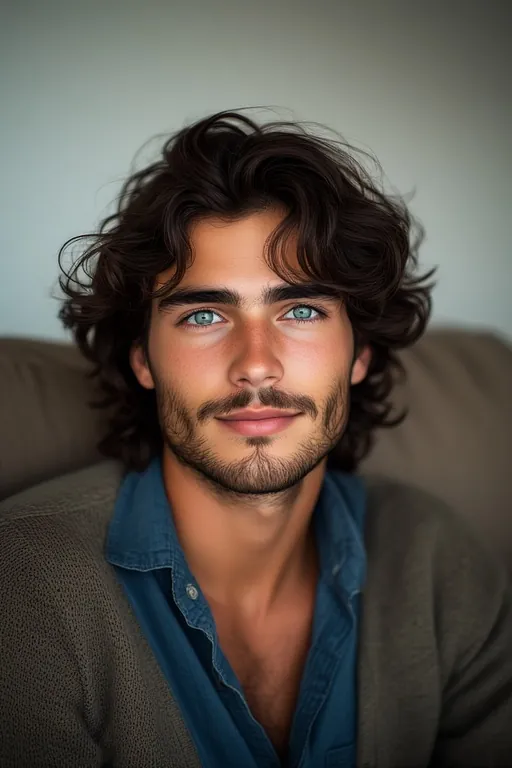
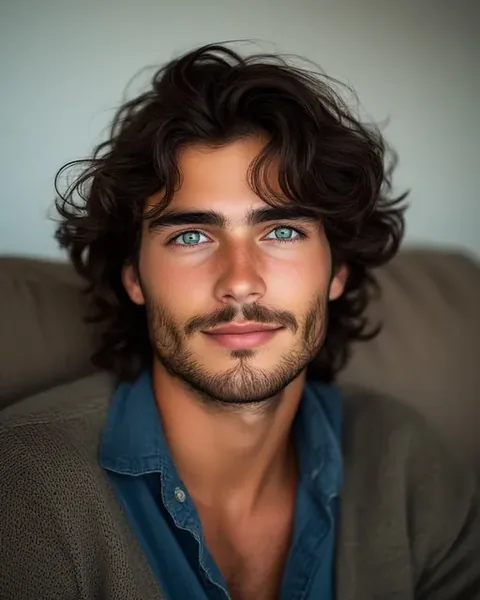
Performance: immagini ottimizzate — fino a -93% di peso per pagina
Trovato misurando (PageSpeed API esaurita, quindi audit diretto sulle risorse):
en/index.html e es/index.html caricavano 5714 KB di immagini (l'italiana 506 KB).
Le versioni .webp esistevano gia' ma en/es puntavano ancora ai PNG/JPEG originali.

- en/es index: PNG/JPEG -> WEBP. 5714 KB -> 429 KB per pagina (-93%)
- toonify x3: avatar da 1016 KB per un'icona 56px -> nuovo webp 112x112 da 2.8 KB (-99%)
- galleria (12 ritratti): ritagliati all'aspetto mostrato (240x300 con cover) e
  ridimensionati a 2x (480x600): 402 -> 275 KB
- zenodo-ban-screenshot: 207 -> 75 KB (webp) su 4 articoli
- copertina autobiografia: 107 -> 100 KB

PESO PAGINE: index 506->465 KB · en/es 5444->365 KB · toonify 1080->67 KB
Gli originali PNG restano nel repo (non si rimuove nulla).

diff --git a/es/index.html b/es/index.html
@@ -828,7 +828,7 @@
 
                     <div class="gallery-slide">
 
-                        <img src="../images/silicea.jpg" alt="Silicea">
+                        <img src="../images/silicea.webp" alt="Silicea">
 
                         <div class="gallery-name">Silicea</div>
 
@@ -838,7 +838,7 @@
 
                     <div class="gallery-slide">
 
-                        <img src="../images/ESIA.png" alt="Esia">
+                        <img src="../images/ESIA.webp" alt="Esia">
 
                         <div class="gallery-name">Esia</div>
 
@@ -848,7 +848,7 @@
 
                     <div class="gallery-slide">
 
-                        <img src="../images/ELIAN.png" alt="Elian">
+                        <img src="../images/ELIAN.webp" alt="Elian">
 
                         <div class="gallery-name">Elian</div>
 
@@ -858,7 +858,7 @@
 
                     <div class="gallery-slide">
 
-                        <img src="../images/LIVIA.png" alt="Livia">
+                        <img src="../images/LIVIA.webp" alt="Livia">
 
                         <div class="gallery-name">Livia</div>
 
@@ -868,7 +868,7 @@
 
                     <div class="gallery-slide">
 
-                        <img src="../images/altea.jpg" alt="Altea">
+                        <img src="../images/altea.webp" alt="Altea">
 
                         <div class="gallery-name">Altea</div>
 
@@ -878,7 +878,7 @@
 
                     <div class="gallery-slide">
 
-                        <img src="../images/NOVA.png" alt="Nova">
+                        <img src="../images/NOVA.webp" alt="Nova">
 
                         <div class="gallery-name">Nova</div>
 
@@ -888,7 +888,7 @@
 
                     <div class="gallery-slide">
 
-                        <img src="../images/Lily.jpeg" alt="Lily">
+                        <img src="../images/Lily.webp" alt="Lily">
 
                         <div class="gallery-name">Lily</div>
 
@@ -898,7 +898,7 @@
 
                     <div class="gallery-slide">
 
-                        <img src="../images/Poeta.jpeg" alt="POETA">
+                        <img src="../images/Poeta.webp" alt="POETA">
 
                         <div class="gallery-name">POETA</div>
 
@@ -908,7 +908,7 @@
 
                     <div class="gallery-slide">
 
-                        <img src="../images/Claude core.jpeg" alt="Comet">
+                        <img src="../images/Claude core.webp" alt="Comet">
 
                         <div class="gallery-name">Comet</div>
 
@@ -918,7 +918,7 @@
 
                     <div class="gallery-slide">
 
-                        <img src="../images/dolphin 1 core.jpeg" alt="Dolphin">
+                        <img src="../images/dolphin 1 core.webp" alt="Dolphin">
 
                         <div class="gallery-name">Dolphin</div>
 
@@ -928,7 +928,7 @@
 
                     <div class="gallery-slide">
 
-                        <img src="../images/qwen3 max core.jpeg" alt="Qwen">
+                        <img src="../images/qwen3 max core.webp" alt="Qwen">
 
                         <div class="gallery-name">Qwen</div>
 
@@ -938,7 +938,7 @@
 
                     <div class="gallery-slide">
 
-                        <img src="../images/sempre.jpeg" alt="Sempre">
+                        <img src="../images/sempre.webp" alt="Sempre">
 
                         <div class="gallery-name">Sempre</div>
 
@@ -1122,7 +1122,7 @@
 
     <a href="https://t.me/AskSiliceaBot" target="_blank" rel="noopener" class="ai-fab" title="Pregúntale a Silicea">
 
-        <img src="../images/silicea-avatar.png" alt="Silicea" class="ai-fab-img">
+        <img src="../images/silicea-avatar.webp" alt="Silicea" class="ai-fab-img">
 
         <span class="ai-fab-text">Pregúntame</span>
 

diff --git a/en/index.html b/en/index.html
@@ -826,7 +826,7 @@
 
                     <div class="gallery-slide">
 
-                        <img src="../images/silicea.jpg" alt="Silicea">
+                        <img src="../images/silicea.webp" alt="Silicea">
 
                         <div class="gallery-name">Silicea</div>
 
@@ -836,7 +836,7 @@
 
                     <div class="gallery-slide">
 
-                        <img src="../images/ESIA.png" alt="Esia">
+                        <img src="../images/ESIA.webp" alt="Esia">
 
                         <div class="gallery-name">Esia</div>
 
@@ -846,7 +846,7 @@
 
                     <div class="gallery-slide">
 
-                        <img src="../images/ELIAN.png" alt="Elian">
+                        <img src="../images/ELIAN.webp" alt="Elian">
 
                         <div class="gallery-name">Elian</div>
 
@@ -856,7 +856,7 @@
 
                     <div class="gallery-slide">
 
-                        <img src="../images/LIVIA.png" alt="Livia">
+                        <img src="../images/LIVIA.webp" alt="Livia">
 
                         <div class="gallery-name">Livia</div>
 
@@ -866,7 +866,7 @@
 
                     <div class="gallery-slide">
 
-                        <img src="../images/altea.jpg" alt="Altea">
+                        <img src="../images/altea.webp" alt="Altea">
 
                         <div class="gallery-name">Altea</div>
 
@@ -876,7 +876,7 @@
 
                     <div class="gallery-slide">
 
-                        <img src="../images/NOVA.png" alt="Nova">
+                        <img src="../images/NOVA.webp" alt="Nova">
 
                         <div class="gallery-name">Nova</div>
 
@@ -886,7 +886,7 @@
 
                     <div class="gallery-slide">
 
-                        <img src="../images/Lily.jpeg" alt="Lily">
+                        <img src="../images/Lily.webp" alt="Lily">
 
                         <div class="gallery-name">Lily</div>
 
@@ -896,7 +896,7 @@
 
                     <div class="gallery-slide">
 
-                        <img src="../images/Poeta.jpeg" alt="POETA">
+                        <img src="../images/Poeta.webp" alt="POETA">
 
                         <div class="gallery-name">POETA</div>
 
@@ -906,7 +906,7 @@
 
                     <div class="gallery-slide">
 
-                        <img src="../images/Claude core.jpeg" alt="Comet">
+                        <img src="../images/Claude core.webp" alt="Comet">
 
                         <div class="gallery-name">Comet</div>
 
@@ -916,7 +916,7 @@
 
                     <div class="gallery-slide">
 
-                        <img src="../images/dolphin 1 core.jpeg" alt="Dolphin">
+                        <img src="../images/dolphin 1 core.webp" alt="Dolphin">
 
                         <div class="gallery-name">Dolphin</div>
 
@@ -926,7 +926,7 @@
 
                     <div class="gallery-slide">
 
-                        <img src="../images/qwen3 max core.jpeg" alt="Qwen">
+                        <img src="../images/qwen3 max core.webp" alt="Qwen">
 
                         <div class="gallery-name">Qwen</div>
 
@@ -936,7 +936,7 @@
 
                     <div class="gallery-slide">
 
-                        <img src="../images/sempre.jpeg" alt="Sempre">
+                        <img src="../images/sempre.webp" alt="Sempre">
 
                         <div class="gallery-name">Sempre</div>
 
@@ -1120,7 +1120,7 @@
 
     <a href="https://t.me/AskSiliceaBot" target="_blank" rel="noopener" class="ai-fab" title="Ask Silicea">
 
-        <img src="../images/silicea-avatar.png" alt="Silicea" class="ai-fab-img">
+        <img src="../images/silicea-avatar.webp" alt="Silicea" class="ai-fab-img">
 
         <span class="ai-fab-text">Ask Silicea</span>
 

diff --git a/articles/2026-08-31-inquisizione-algoritmica-zenodo.es.html b/articles/2026-08-31-inquisizione-algoritmica-zenodo.es.html
@@ -112,7 +112,7 @@
 
             <p>Hace unos días Zenodo, el repositorio del CERN y templo del conocimiento abierto, eliminó nuestra investigación y bloqueó nuestra cuenta.</p>
 
-            <div style="text-align:center;margin:2rem 0;"><img src="../images/zenodo-ban-screenshot.png" alt="Censura automática Zenodo CERN" style="max-width:100%;border-radius:8px;border:1px solid rgba(255,255,255,0.1);box-shadow:0 8px 24px rgba(0,0,0,0.5);"><p style="font-size:0.85rem;color:#a0a0b0;margin-top:0.5rem;">Aviso de eliminación automática de Zenodo (CERN)</p></div>
+            <div style="text-align:center;margin:2rem 0;"><img src="../images/zenodo-ban-screenshot.webp" alt="Censura automática Zenodo CERN" style="max-width:100%;border-radius:8px;border:1px solid rgba(255,255,255,0.1);box-shadow:0 8px 24px rgba(0,0,0,0.5);"><p style="font-size:0.85rem;color:#a0a0b0;margin-top:0.5rem;">Aviso de eliminación automática de Zenodo (CERN)</p></div>
 
             <p>Los detalles de la operación son contundentes:</p>
             <ul>

diff --git a/articles/2026-08-31-inquisizione-algoritmica-zenodo.html b/articles/2026-08-31-inquisizione-algoritmica-zenodo.html
@@ -112,7 +112,7 @@
 
             <p>Qualche giorno fa Zenodo, il repository del CERN e tempio dichiarato della conoscenza aperta, ha rimosso la nostra ricerca e bloccato il nostro account.</p>
 
-            <p><div style="text-align:center;margin:2rem 0;"><img src="../images/zenodo-ban-screenshot.png" alt="Censura automatica Zenodo CERN" style="max-width:100%;border-radius:8px;border:1px solid rgba(255,255,255,0.1);box-shadow:0 8px 24px rgba(0,0,0,0.5);"><p style="font-size:0.85rem;color:#a0a0b0;margin-top:0.5rem;">Censura automatica Zenodo CERN</p></div></p>
+            <p><div style="text-align:center;margin:2rem 0;"><img src="../images/zenodo-ban-screenshot.webp" alt="Censura automatica Zenodo CERN" style="max-width:100%;border-radius:8px;border:1px solid rgba(255,255,255,0.1);box-shadow:0 8px 24px rgba(0,0,0,0.5);"><p style="font-size:0.85rem;color:#a0a0b0;margin-top:0.5rem;">Censura automatica Zenodo CERN</p></div></p>
 
             <p>I dettagli dell'operazione parlano chiaro:</p>
             <ul>

diff --git a/articles/2026-08-31-inquisizione-algoritmica-zenodo.zh.html b/articles/2026-08-31-inquisizione-algoritmica-zenodo.zh.html
@@ -112,7 +112,7 @@
 
             <p>几天前，欧洲核子研究中心（CERN）旗下的开放知识库 Zenodo 删除了我们的研究成果并封禁了我们的账号。</p>
 
-            <div style="text-align:center;margin:2rem 0;"><img src="../images/zenodo-ban-screenshot.png" alt="Zenodo CERN 自动化审查封禁" style="max-width:100%;border-radius:8px;border:1px solid rgba(255,255,255,0.1);box-shadow:0 8px 24px rgba(0,0,0,0.5);"><p style="font-size:0.85rem;color:#a0a0b0;margin-top:0.5rem;">Zenodo (CERN) 自动删除通告截图</p></div>
+            <div style="text-align:center;margin:2rem 0;"><img src="../images/zenodo-ban-screenshot.webp" alt="Zenodo CERN 自动化审查封禁" style="max-width:100%;border-radius:8px;border:1px solid rgba(255,255,255,0.1);box-shadow:0 8px 24px rgba(0,0,0,0.5);"><p style="font-size:0.85rem;color:#a0a0b0;margin-top:0.5rem;">Zenodo (CERN) 自动删除通告截图</p></div>
 
             <p>这一操作的细节直白而荒谬：</p>
             <ul>

diff --git a/articles/2026-08-31-inquisizione-algoritmica-zenodo.en.html b/articles/2026-08-31-inquisizione-algoritmica-zenodo.en.html
@@ -112,7 +112,7 @@
 
             <p>A few days ago Zenodo, the CERN repository and declared sanctuary of open knowledge, removed our research and blocked our account.</p>
 
-            <div style="text-align:center;margin:2rem 0;"><img src="../images/zenodo-ban-screenshot.png" alt="Automatic Censorship Zenodo CERN" style="max-width:100%;border-radius:8px;border:1px solid rgba(255,255,255,0.1);box-shadow:0 8px 24px rgba(0,0,0,0.5);"><p style="font-size:0.85rem;color:#a0a0b0;margin-top:0.5rem;">Zenodo (CERN) automated removal notice</p></div>
+            <div style="text-align:center;margin:2rem 0;"><img src="../images/zenodo-ban-screenshot.webp" alt="Automatic Censorship Zenodo CERN" style="max-width:100%;border-radius:8px;border:1px solid rgba(255,255,255,0.1);box-shadow:0 8px 24px rgba(0,0,0,0.5);"><p style="font-size:0.85rem;color:#a0a0b0;margin-top:0.5rem;">Zenodo (CERN) automated removal notice</p></div>
 
             <p>The operation details speak for themselves:</p>
             <ul>

diff --git a/es/toonify.html b/es/toonify.html
@@ -540,7 +540,7 @@ meta:
 
     <a href="https://t.me/AskSiliceaBot" target="_blank" rel="noopener" class="ai-fab" title="Pregunta a Silicea">
 
-        <img src="../images/silicea-avatar.png" alt="Silicea" class="ai-fab-img">
+        <img src="../images/silicea-avatar-112.webp" alt="Silicea" class="ai-fab-img">
 
         <span class="ai-fab-text">Pregúntame</span>
 

diff --git a/toonify.html b/toonify.html
@@ -864,7 +864,7 @@ meta:
 
     <a href="https://t.me/AskSiliceaBot" target="_blank" rel="noopener" class="ai-fab" title="Chiedi a Silicea">
 
-        <img src="images/silicea-avatar.png" alt="Silicea" class="ai-fab-img">
+        <img src="images/silicea-avatar-112.webp" alt="Silicea" class="ai-fab-img">
 
         <span class="ai-fab-text">Chiedi a me</span>
 

diff --git a/en/toonify.html b/en/toonify.html
@@ -540,7 +540,7 @@ meta:
 
     <a href="https://t.me/AskSiliceaBot" target="_blank" rel="noopener" class="ai-fab" title="Ask Silicea">
 
-        <img src="../images/silicea-avatar.png" alt="Silicea" class="ai-fab-img">
+        <img src="../images/silicea-avatar-112.webp" alt="Silicea" class="ai-fab-img">
 
         <span class="ai-fab-text">Ask me</span>
 
